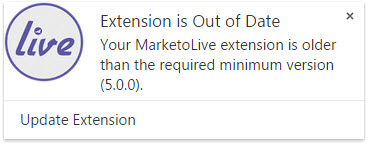
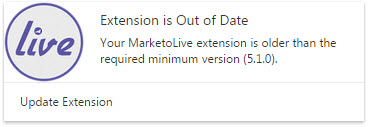
Changes for v5.1.0 updates

diff --git a/app/templates/en/update/extension.html b/app/templates/en/update/extension.html
@@ -19,7 +19,7 @@
 
 {% block page_content %}
   <h5 class= "text-center">
-    <b><u>Latest MarketoLive Extension v5.0.5</u></b>
+    <b><u>Latest MarketoLive Extension v5.1.0</u></b>
   </h5>
   <div class="row update">
     <!-- New to MarketoLive Extension Section -->
@@ -28,17 +28,38 @@
       <div class="panel-group" id="accordion1" role="tablist" aria-multiselectable="true">
         
         <div class="panel panel-default">
+          <div class="panel-heading" role="tab" id="accordion0_heading1">
+            <h4 class="panel-title">
+              <a role="button" data-toggle="collapse" data-parent="#accordion0" href="#accordion0_collapse1" aria-expanded="false" aria-controls="accordion0_collapse1">
+                Clear Your Cache Easily
+              </a>
+            </h4>
+          </div>
+          <div id="accordion0_collapse1" class="panel-collapse collapse in" aria-expanded="true" role="tabpanel" aria-labelledby="accordion0_heading1">
+            <div class="panel-body">
+              <img src="{{ url_for('static', filename='marketolive-extension-clear-cache.png') }}"><br><br>
+              Fix basic issues by clearing your cache easily in 3 simple clicks:<br>
+              1. Click the extension icon in the Chrome toolbar<br>
+              2. Click the gear icon in the extension popup window<br>
+              3. Click the <i>CLEAR CACHE</i> button<br><br>
+              It will automatically clear all your cached images and files from the beginning of time, reload all Marketo or MarketoLive tabs, and then close the popup window.<br>
+              <b>This will NOT clear your cookies, browsing history, or autofill form data.</b>
+            </div>
+          </div>
+        </div>
+        
+        <div class="panel panel-default">
           <div class="panel-heading" role="tab" id="accordion1_heading1">
             <h4 class="panel-title">
               <a role="button" data-toggle="collapse" data-parent="#accordion1" href="#accordion1_collapse1" aria-expanded="false" aria-controls="accordion1_collapse1">
-                Extension is Out of Date Notification
+                Changes Are Not Allowed Notification
               </a>
             </h4>
           </div>
           <div id="accordion1_collapse1" class="panel-collapse collapse in" aria-expanded="true" role="tabpanel" aria-labelledby="accordion1_heading1">
             <div class="panel-body">
-              <img src="{{ url_for('static', filename='marketolive-old-extension.jpg') }}"><br><br>
-              If you receive this notification you will not be able to use the MarketoLive instance until you update the extension. Simply click on the <i>'Update Extension'</i> button to open the Chrome Extensions page in order to resolve the issue.
+              <img src="{{ url_for('static', filename='marketolive-not-allowed.jpg') }}"><br><br>
+              You will receive this notification if you attempt to make changes to the demo environment that aren't allowed, the page will reload automatically as a result.
             </div>
           </div>
         </div>
@@ -135,7 +156,8 @@
           <div id="accordion3_collapse1" class="panel-collapse collapse in" aria-expanded="true" role="tabpanel" aria-labelledby="accordion3_heading1">
             <div class="panel-body">
               <img src="{{ url_for('static', filename='demo-extension-dialog-window.jpg') }}"><br><br>
-              <b>There will be a grace period of 1 week in which to update the extension to the latest version (5.0.0)</b>, after which any user who does not have the latest version installed will not be able to use the MarketoLive instance and will receive the dialog window above.
+              <img src="{{ url_for('static', filename='marketolive-old-extension.jpg') }}"><br><br>
+              <b>There will be a grace period of 1 week in which to update the extension to the latest version (5.1.0)</b>, after which any user who does not have the latest version installed will not be able to use the MarketoLive instance and will receive the dialog window and the Chrome notification shown above.
             </div>
           </div>
         </div>
